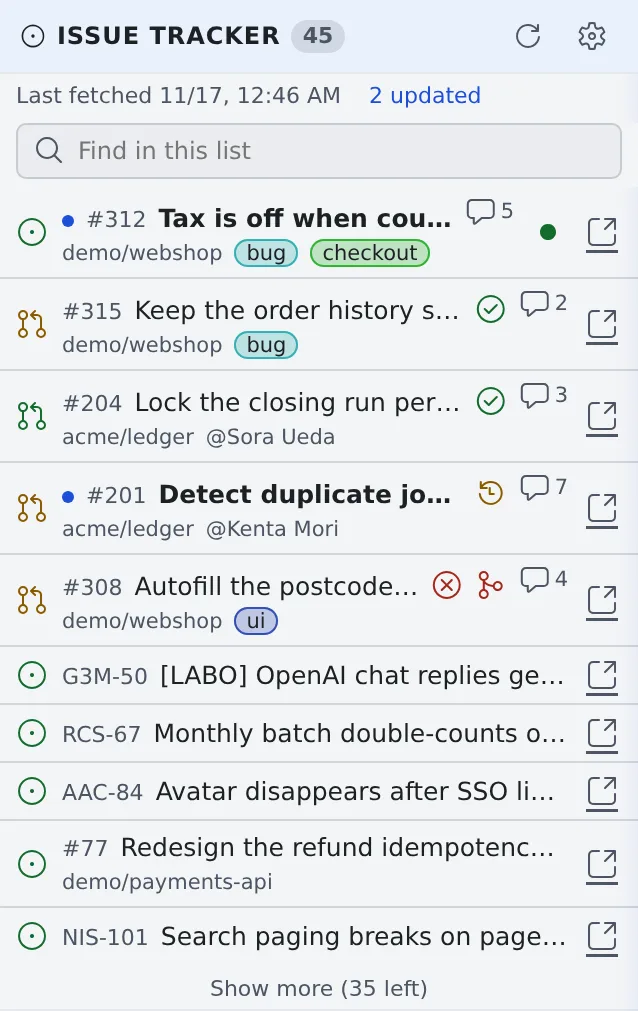
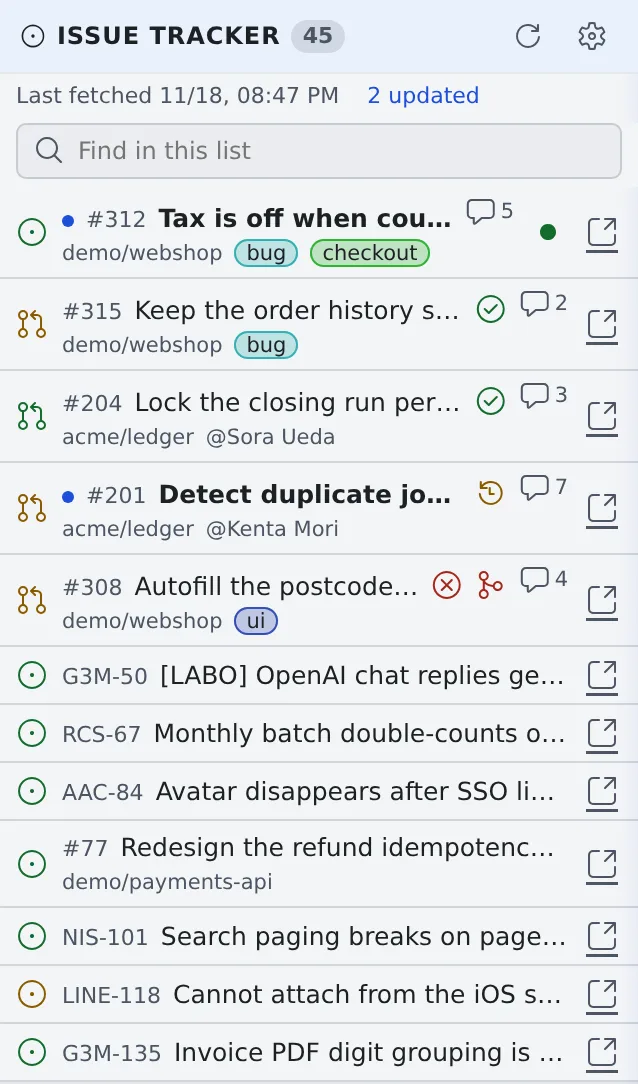
docs(guide): re-capture the Issue tracker screenshot clipped to the top rows
Root cause: #4448 removed the Show more fold, so the sessions-issue-list scene
drew all 45 fixture rows and the old image still showed the fold.

Fix: the scene hides every row after the 12th before the clip, the two
images are re-captured, and the alt text in both guide pages says the
picture shows the top rows only and no longer mentions Show more.

Verified: captured with capture.mjs (ja and en, light) and viewed the
result; the top rows carry the unread, CI, conflict and comment marks.

Refs #4449

diff --git a/guide/user/sessions/from-issues.ja.md b/guide/user/sessions/from-issues.ja.md
@@ -23,7 +23,7 @@ source_of_truth: "Console の左ペインの「課題管理」ビューと、項
 
 ## 一覧を読む
 
-![左ペインの「課題管理」ビュー。見出しに件数 45、その下に最終取得の時刻と「2 件更新」、「この一覧の中を探す」の欄があり、GitHub・Bitbucket・Jira の行に未読の点、CI の印、競合の印、コメント数、🔗 が並び、下端に「さらに表示（残り 35 件）」がある](../../assets/sessions-issue-list-ja-light.webp)
+![左ペインの「課題管理」ビュー。見出しに件数 45、その下に最終取得の時刻と「2 件更新」、「この一覧の中を探す」の欄があり、45 件のうち先頭の 12 行だけを切り出した画像で、一覧は下へ続く。GitHub・Bitbucket・Jira の行に未読の点、CI の印、競合の印、コメント数が並ぶ](../../assets/sessions-issue-list-ja-light.webp)
 
 | 表示 | 意味 |
 |---|---|

diff --git a/guide/user/sessions/from-issues.md b/guide/user/sessions/from-issues.md
@@ -23,7 +23,7 @@ The list can be read while the workspace is stopped.
 
 ## Read the list
 
-![The Issue tracker view of the left pane. The heading shows 45, with the last fetch time, "2 updated" and a "Find in this list" box under it; GitHub, Bitbucket and Jira rows carry unread dots, CI marks, a conflict mark, comment counts and 🔗, and "Show more (35 left)" is at the bottom](../../assets/sessions-issue-list-en-light.webp)
+![The Issue tracker view of the left pane. The heading shows 45, with the last fetch time, "2 updated" and a "Find in this list" box under it; the first 12 of the 45 rows are shown (the picture is clipped, the list continues below) — GitHub, Bitbucket and Jira rows carry unread dots, CI marks, a conflict mark and comment counts](../../assets/sessions-issue-list-en-light.webp)
 
 | What you see | Meaning |
 |---|---|
